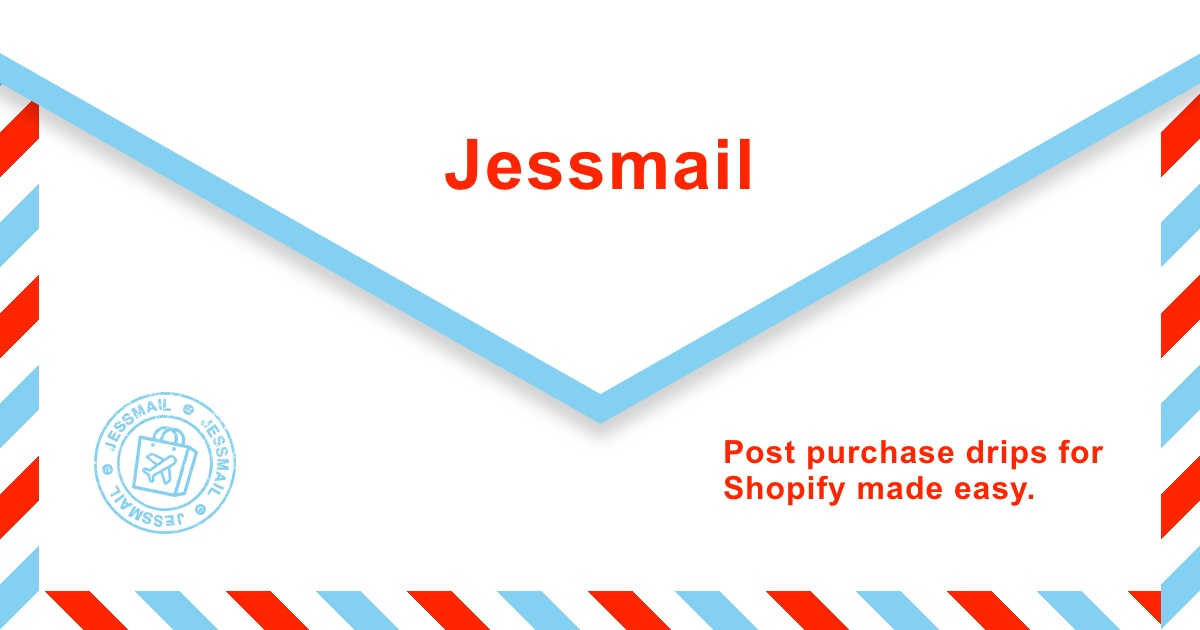
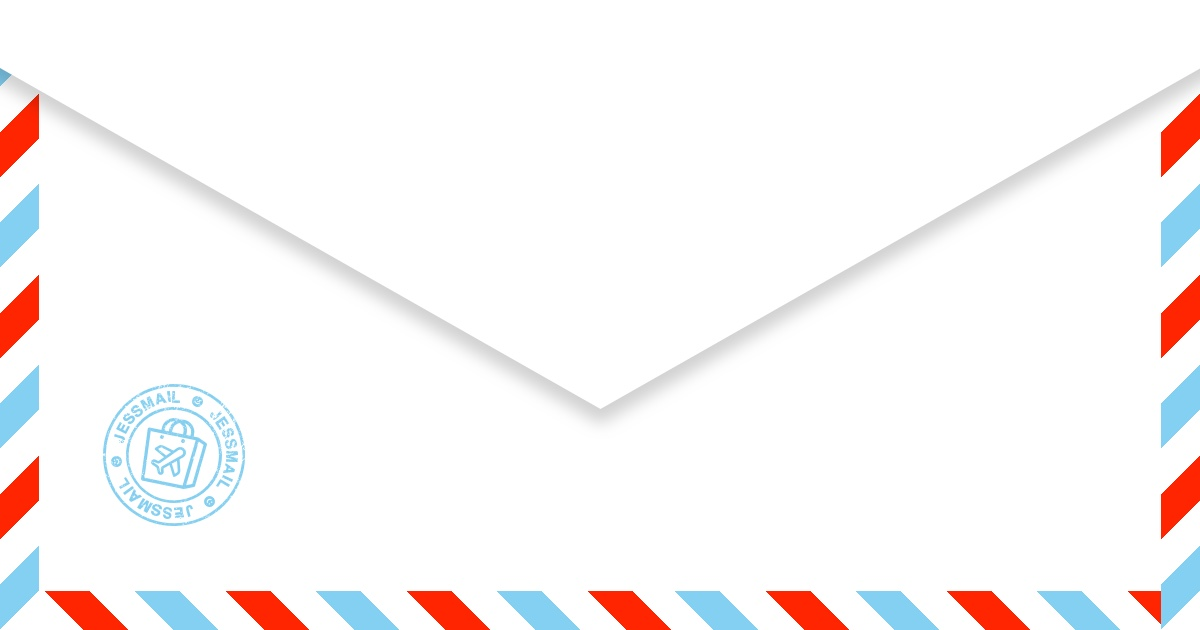
updated open graph image

diff --git a/_site/index.html b/_site/index.html
@@ -22,11 +22,11 @@
   </div>
   <div class="main-text">
     <h1> Jessmail </h1>
-      <p> Post purchase drips for Shopify made easy. Sign up to be the first to know when we launch!</p>
+      <p>Prepare for life post Mailchimp! Manage your post purchase drip emails directly in Shopify.</p>
   </div>
 </div>
 <div class="signup">
-  <script type="text/javascript" src="//app.sgwidget.com/js/sg-widget.js"></script><style>.sendgrid-subscription-widget input { padding: .5em .5em .55em; font-size: .8em; font-family: sans-serif } .sendgrid-subscription-widget #sg_signup_first_name, .sendgrid-subscription-widget #sg_signup_last_name { margin-right: .5em } .sendgrid-subscription-widget #sg-submit-btn { display: block; color: #000000; border-bottom: 1px solid black; background: #ffffff; cursor: pointer; vertical-align: middle; max-width: 100px; padding: .5em; font-size: .9em; font-family: sans-serif } .sendgrid-subscription-widget #sg-submit-btn:active { color: #8e8b8b; box-shadow: 0 0 5px -1px rgba(0, 0, 0, .6) } .sendgrid-subscription-widget .response { display: none; font-family: sans-serif; font-size: .8em } .sendgrid-subscription-widget .success { color: green } .sendgrid-subscription-widget .error, .sendgrid-subscription-widget .sg-consent-text a { color: #3097d1 } .sendgrid-subscription-widget .sg-consent-text { font-size: .9em } .sendgrid-subscription-widget .sg-consent-text label { font-weight: 400 } .sendgrid-subscription-widget .required { outline: 1px solid #f00; } .sendgrid-subscription-widget .sg_custom { } .sendgrid-subscription-widget .checkbox_label { padding-left: 3px; } </style><div id="sendgrid-subscription-widget" class="sendgrid-subscription-widget" data-emailerror="Please enter a valid email address" data-nameerror="Please enter your name" data-checkboxerror="Please tick the box to accept our conditions" data-customfieldserror="Let us know your store name!"><form id="sg-widget" data-token="151f59c5928204ff89a3e1037d6a978e" onsubmit="return false;"><div class="sg-response" id="sg-response"></div><input id="sg_email" type="email" name="sg_email" placeholder="you@example.com" required="required"> <input type="text" name="shopify_store_name" placeholder="Shopify Store Name" id="sg_custom_0" class="sg_custom" required="required"> <input type="submit" id="sg-submit-btn" value="Subscribe"></form></div>
+  <script type="text/javascript" src="//app.sgwidget.com/js/sg-widget.js"></script><style>.sendgrid-subscription-widget input { padding: 1em 1em 1.5em; font-size: .8em; font-family: sans-serif } .sendgrid-subscription-widget #sg_signup_first_name, .sendgrid-subscription-widget #sg_signup_last_name { margin-right: .5em } .sendgrid-subscription-widget #sg-submit-btn { display: block; color: #000000; border-bottom: 1px solid black; background: #ffffff; cursor: pointer; vertical-align: middle; max-width: 100px; padding: 1em; font-size: .9em; font-family: sans-serif } .sendgrid-subscription-widget #sg-submit-btn:active { color: #8e8b8b; box-shadow: 0 0 5px -1px rgba(0, 0, 0, .6) } .sendgrid-subscription-widget .response { display: none; font-family: sans-serif; font-size: .8em } .sendgrid-subscription-widget .success { color: green } .sendgrid-subscription-widget .error, .sendgrid-subscription-widget .sg-consent-text a { color: #3097d1 } .sendgrid-subscription-widget .sg-consent-text { font-size: .9em } .sendgrid-subscription-widget .sg-consent-text label { font-weight: 400 } .sendgrid-subscription-widget .required { outline: 1px solid #f00; } .sendgrid-subscription-widget .sg_custom { } .sendgrid-subscription-widget .checkbox_label { padding-left: 3px; } </style><div id="sendgrid-subscription-widget" class="sendgrid-subscription-widget" data-emailerror="Please enter a valid email address" data-nameerror="Please enter your name" data-checkboxerror="Please tick the box to accept our conditions" data-customfieldserror="Let us know your store name!"><form id="sg-widget" data-token="151f59c5928204ff89a3e1037d6a978e" onsubmit="return false;"><div class="sg-response" id="sg-response"></div><input id="sg_email" type="email" name="sg_email" placeholder="you@example.com" required="required"> <input type="text" name="shopify_store_name" placeholder="Shopify Store Name" id="sg_custom_0" class="sg_custom" required="required"> <input type="submit" id="sg-submit-btn" value="SIGN UP"></form></div>
 
 </div>
 

diff --git a/_includes/signup.html b/_includes/signup.html
@@ -1,1 +1,1 @@
-<script type="text/javascript" src="//app.sgwidget.com/js/sg-widget.js"></script><style>.sendgrid-subscription-widget input { padding: .5em .5em .55em; font-size: .8em; font-family: sans-serif } .sendgrid-subscription-widget #sg_signup_first_name, .sendgrid-subscription-widget #sg_signup_last_name { margin-right: .5em } .sendgrid-subscription-widget #sg-submit-btn { display: block; color: #000000; border-bottom: 1px solid black; background: #ffffff; cursor: pointer; vertical-align: middle; max-width: 100px; padding: .5em; font-size: .9em; font-family: sans-serif } .sendgrid-subscription-widget #sg-submit-btn:active { color: #8e8b8b; box-shadow: 0 0 5px -1px rgba(0, 0, 0, .6) } .sendgrid-subscription-widget .response { display: none; font-family: sans-serif; font-size: .8em } .sendgrid-subscription-widget .success { color: green } .sendgrid-subscription-widget .error, .sendgrid-subscription-widget .sg-consent-text a { color: #3097d1 } .sendgrid-subscription-widget .sg-consent-text { font-size: .9em } .sendgrid-subscription-widget .sg-consent-text label { font-weight: 400 } .sendgrid-subscription-widget .required { outline: 1px solid #f00; } .sendgrid-subscription-widget .sg_custom { } .sendgrid-subscription-widget .checkbox_label { padding-left: 3px; } </style><div id="sendgrid-subscription-widget" class="sendgrid-subscription-widget" data-emailerror="Please enter a valid email address" data-nameerror="Please enter your name" data-checkboxerror="Please tick the box to accept our conditions" data-customfieldserror="Let us know your store name!"><form id="sg-widget" data-token="151f59c5928204ff89a3e1037d6a978e" onsubmit="return false;"><div class="sg-response" id="sg-response"></div><input id="sg_email" type="email" name="sg_email" placeholder="you@example.com" required="required"> <input type="text" name="shopify_store_name" placeholder="Shopify Store Name" id="sg_custom_0" class="sg_custom" required="required"> <input type="submit" id="sg-submit-btn" value="Subscribe"></form></div>
+<script type="text/javascript" src="//app.sgwidget.com/js/sg-widget.js"></script><style>.sendgrid-subscription-widget input { padding: 1em 1em 1.5em; font-size: .8em; font-family: sans-serif } .sendgrid-subscription-widget #sg_signup_first_name, .sendgrid-subscription-widget #sg_signup_last_name { margin-right: .5em } .sendgrid-subscription-widget #sg-submit-btn { display: block; color: #000000; border-bottom: 1px solid black; background: #ffffff; cursor: pointer; vertical-align: middle; max-width: 100px; padding: 1em; font-size: .9em; font-family: sans-serif } .sendgrid-subscription-widget #sg-submit-btn:active { color: #8e8b8b; box-shadow: 0 0 5px -1px rgba(0, 0, 0, .6) } .sendgrid-subscription-widget .response { display: none; font-family: sans-serif; font-size: .8em } .sendgrid-subscription-widget .success { color: green } .sendgrid-subscription-widget .error, .sendgrid-subscription-widget .sg-consent-text a { color: #3097d1 } .sendgrid-subscription-widget .sg-consent-text { font-size: .9em } .sendgrid-subscription-widget .sg-consent-text label { font-weight: 400 } .sendgrid-subscription-widget .required { outline: 1px solid #f00; } .sendgrid-subscription-widget .sg_custom { } .sendgrid-subscription-widget .checkbox_label { padding-left: 3px; } </style><div id="sendgrid-subscription-widget" class="sendgrid-subscription-widget" data-emailerror="Please enter a valid email address" data-nameerror="Please enter your name" data-checkboxerror="Please tick the box to accept our conditions" data-customfieldserror="Let us know your store name!"><form id="sg-widget" data-token="151f59c5928204ff89a3e1037d6a978e" onsubmit="return false;"><div class="sg-response" id="sg-response"></div><input id="sg_email" type="email" name="sg_email" placeholder="you@example.com" required="required"> <input type="text" name="shopify_store_name" placeholder="Shopify Store Name" id="sg_custom_0" class="sg_custom" required="required"> <input type="submit" id="sg-submit-btn" value="SIGN UP"></form></div>

diff --git a/index.html b/index.html
@@ -11,7 +11,7 @@ og-description: The best, most afforable way to message your customers post-purc
   </div>
   <div class="main-text">
     <h1> Jessmail </h1>
-      <p> Post purchase drips for Shopify made easy. Sign up to be the first to know when we launch!</p>
+      <p>Prepare for life post Mailchimp! Manage your post purchase drip emails directly in Shopify.</p>
   </div>
 </div>
 <div class="signup">

diff --git a/_site/assets/css/styles.css b/_site/assets/css/styles.css
@@ -66,8 +66,10 @@ div#sg-response {
   margin-top: 1em; }
 
 #sg-submit-btn {
-  min-width: 362.78px;
-  -webkit-appearance: none; }
+  min-width: 375.59px;
+  -webkit-appearance: none;
+  font-weight: bold;
+  text-transform: uppercase; }
 
 ::placeholder {
   color: black; }

diff --git a/_sass/main.scss b/_sass/main.scss
@@ -82,8 +82,10 @@ div#sg-response {
   }
 
 #sg-submit-btn{
-  min-width: 362.78px;
+  min-width: 375.59px;
    -webkit-appearance: none;
+   font-weight: bold;
+   text-transform: uppercase;
 }
 
 ::placeholder{
